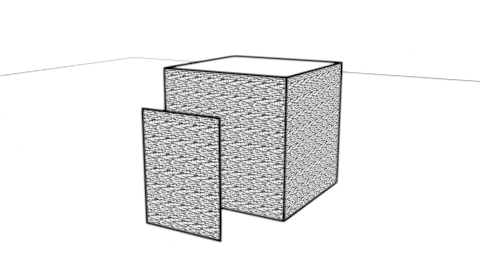
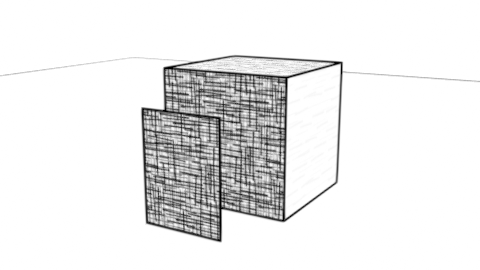
Crosshatch: fix the three look-breaking defaults (scale, key, ambient)
The first cut rendered real models as muddy grey noise. Three root causes,
each visible in isolation on the PacificContinentalResidence sample:

- uv_scale 3.0 -> 0.5. The custom-mip system needs one TAM tile to span
  ~32-256 SCREEN px; at whole-building framing (~35 px/m) 3.0 put tiles at
  ~12 px, so strokes went sub-pixel and aliased into flat grey "fabric".
- sync_sun read matrix_world, which is still IDENTITY in the pipeline path
  (no depsgraph eval between setup_world and the preset) - the shader got a
  straight-down sun: every wall ndl=0, uniform mid tone. Read rotation_euler.
- ambient 0.5 -> 0.15. 0.5 was mis-ported from the procedural hatch (where
  tone drives line WIDTH); in the Praun shader it capped darkness at 0.5, so
  no surface could ever reach the dense cross-hatch columns (4-5) that make
  the reference look. 0.15 restores the full white -> crosshatch range.

Plus the tone-source design this exposed: site suns can backlight a shot
into uniform flat hatch (the sample's 21:00 spec sun did), so the default
tone light is now hatch_tam.aim_camera_key() - a camera-relative artist's
key (45 deg over the left shoulder, 38 deg altitude), re-derived per render
in Live View (Capture / Render Final). The lamp contributes nothing to the
pixels (emission material), so the scene sun stays site-accurate; a new
"Follow Scene Sun" toggle in the Light panel switches tone back to the lamp
(the _apply_sun_direction hook now only syncs in that mode).
[…]

Changed region(s): [[0.2812, 0.2074, 0.7188, 0.8889]]

diff --git a/blender/pipeline/hatch_tam.py b/blender/pipeline/hatch_tam.py
@@ -23,9 +23,12 @@ Cycles-only, CPU (OSL). Three integration facts this module encodes:
   architectural corners, which is where hand hatching restarts anyway.
 
 The shader computes its own Lambert tone from the sun_dir INPUT (Cycles has
-no Shader-to-RGB), so sync_sun() must run after any sun move - live.py hooks
-it into _apply_sun_direction. Tone is orientation-only: no cast shadows, no
-AO (faithful to the paper; unlike `hatch`, where the shadows are the drawing).
+no Shader-to-RGB). Tone is orientation-only - no cast shadows, no AO
+(faithful to the paper; unlike `hatch`, where the shadows are the drawing) -
+so the light DIRECTION is the whole image. Default = aim_camera_key(), a
+camera-relative artist's key (a site sun can backlight a shot into flat
+uniform hatch - a real 21:00 spec did exactly that); Live View's "Follow
+scene sun" toggle switches to sync_sun(), which tracks the lamp.
 """
 import math
 import os
@@ -123,6 +126,45 @@ def _bake_box_uv(obj, me):
     layer.data.foreach_set("uv", np.stack([u, v], 1).astype(np.float32).ravel())
 
 
+def aim_camera_key(azimuth_offset_deg=45.0, altitude_deg=38.0):
+    """Point the shader's tone key over the camera's shoulder (classic artist
+    light: upper-left-behind). The DEFAULT tone source for this mode.
+
+    Tone is the entire image here (no cast shadows), so a site-accurate sun
+    can render a shot backlit-flat - e.g. a 21:00 spec sun behind the model
+    hatched every visible face identically. The lamp itself contributes
+    NOTHING to the final pixels (emission material + flat white world), so
+    only the shader input is written; the scene sun stays site-accurate for
+    every other mode. Live View's "Follow scene sun" toggle switches to
+    sync_sun() instead. Falls back to sync_sun() when no camera exists."""
+    mat = bpy.data.materials.get(MATERIAL)
+    script = _script_node(mat) if mat else None
+    if script is None:
+        return
+    cam = bpy.context.scene.camera
+    if cam is None:
+        sync_sun()
+        return
+    if cam.rotation_mode == "QUATERNION":
+        q = cam.rotation_quaternion
+    else:
+        q = cam.rotation_euler.to_quaternion()
+    f = q @ Vector((0.0, 0.0, -1.0))            # camera forward
+    fh = Vector((f.x, f.y, 0.0))
+    if fh.length < 1e-6:                        # straight-down 2D plan pose
+        sync_sun()
+        return
+    back = -fh.normalized()
+    ang = math.radians(azimuth_offset_deg)      # + = over the LEFT shoulder
+    left = Vector((back.x * math.cos(ang) - back.y * math.sin(ang),
+                   back.x * math.sin(ang) + back.y * math.cos(ang), 0.0))
+    alt = math.radians(altitude_deg)
+    to_sun = Vector((left.x * math.cos(alt), left.y * math.cos(alt),
+                     math.sin(alt)))
+    script.inputs["light_is_sun"].default_value = 1
+    script.inputs["sun_dir"].default_value = -to_sun
+
+
 def sync_sun(min_altitude_deg=MIN_SUN_ALTITUDE_DEG):
     """Push the scene sun's travel direction into the shader input.
 
@@ -136,7 +178,11 @@ def sync_sun(min_altitude_deg=MIN_SUN_ALTITUDE_DEG):
     sun = _helpers.sun_object()
     if sun is None:
         return
-    travel = sun.matrix_world.to_quaternion() @ Vector((0.0, 0.0, -1.0))
+    # rotation_euler, NOT matrix_world: the pipeline calls this right after
+    # setup_world wrote the lamp rotation, before any depsgraph evaluation -
+    # matrix_world is still identity there, which silently synced a straight-
+    # DOWN sun (every wall ndl=0 -> flat mid-grey tone; roofs white).
+    travel = sun.rotation_euler.to_quaternion() @ Vector((0.0, 0.0, -1.0))
     to_sun = -travel
     if to_sun.length < 1e-6:
         return
@@ -152,23 +198,39 @@ def sync_sun(min_altitude_deg=MIN_SUN_ALTITUDE_DEG):
     script.inputs["sun_dir"].default_value = -to_sun
 
 
-def apply_crosshatch(loaded, style="ink", uv_scale=3.0, ambient=0.5,
+PAPER_MATERIAL = "BIR_CrosshatchPaper"
+
+
+def _paper_material():
+    mat = bpy.data.materials.get(PAPER_MATERIAL)
+    if mat is None:
+        from . import npr
+        mat = npr.make_flat_material((1.0, 1.0, 1.0), name=PAPER_MATERIAL)
+    return mat
+
+
+def apply_crosshatch(loaded, style="ink", uv_scale=0.5, ambient=0.15,
                      threshold=False):
-    """Assign the ONE shared TAM material to every mesh + the ground."""
+    """Assign the ONE shared TAM material to every model mesh. The synthetic
+    ground plane stays WHITE PAPER instead: it's scenography, not model - a
+    horizontal plane under the 38-degree key would otherwise carpet the whole
+    sheet in a monotone light wash (there are no cast shadows to draw on it).
+    Real site geometry (has_site models) is model surface and hatches."""
     objs = [o for o in loaded.node_to_object.values()
             if getattr(o, "type", None) == "MESH"]
-    ground = bpy.data.objects.get("BIR_Ground")
-    if ground is not None and ground.type == "MESH":
-        objs.append(ground)
     ensure_tam_uv(objs)
 
     mat = _get_material()
     for obj in objs:
         obj.data.materials.clear()
         obj.data.materials.append(mat)
+    ground = bpy.data.objects.get("BIR_Ground")
+    if ground is not None and ground.type == "MESH":
+        ground.data.materials.clear()
+        ground.data.materials.append(_paper_material())
     set_crosshatch(style=style, uv_scale=uv_scale, ambient=ambient,
                    threshold=threshold)
-    sync_sun()
+    aim_camera_key()
     return mat
 
 

diff --git a/blender/interactive/live.py b/blender/interactive/live.py
@@ -516,6 +516,26 @@ def _update_crosshatch(self, context):
                              threshold=self.crosshatch_ink)
 
 
+def _update_crosshatch_key(self, context):
+    if _SYNCING:
+        return
+    from blender.pipeline import hatch_tam
+    if self.crosshatch_follow_sun:
+        hatch_tam.sync_sun()
+    else:
+        hatch_tam.aim_camera_key()
+
+
+def _refresh_crosshatch_key(st):
+    """Re-derive the crosshatch tone key from the CURRENT camera before a
+    render (the shot may have been reframed since the mode was applied).
+    No-op in follow-scene-sun mode or outside crosshatch."""
+    if st is None or st.mode != "crosshatch" or st.crosshatch_follow_sun:
+        return
+    from blender.pipeline import hatch_tam
+    hatch_tam.aim_camera_key()
+
+
 def _update_depth_cue(self, context):
     if _SYNCING:
         return
@@ -581,10 +601,11 @@ def _apply_sun_direction(az, alt):
                 if hasattr(n, "sun_rotation"):
                     n.sun_rotation = math.radians(az)
     # Crosshatch computes tone from a sun-direction INPUT (Cycles has no
-    # Shader-to-RGB), so the lamp move must be pushed into the shader too.
-    # No-op unless the crosshatch material exists.
-    if s is not None:
-        bpy.context.view_layer.update()    # rotation -> matrix_world first
+    # Shader-to-RGB): when it FOLLOWS the scene sun, push the lamp move into
+    # the shader too. (Default is the camera-relative key, which ignores the
+    # lamp entirely - see hatch_tam.aim_camera_key.)
+    st = getattr(bpy.context.scene, "bir", None)
+    if s is not None and st is not None and st.crosshatch_follow_sun:
         from blender.pipeline import hatch_tam
         hatch_tam.sync_sun()
 
@@ -1132,20 +1153,28 @@ class BIR_Settings(bpy.types.PropertyGroup):
         description="Which Tonal Art Map stroke set to draw with (swaps "
                     "instantly - no rebuild)", update=_update_crosshatch)
     crosshatch_scale: bpy.props.FloatProperty(
-        name="Stroke Scale", default=3.0, min=0.5, max=10.0,
-        description="Hatch tiles per metre of surface (higher = finer strokes; "
-                    "stroke WIDTH on screen stays constant either way - that's "
-                    "the TAM trick)", update=_update_crosshatch)
+        name="Stroke Scale", default=0.5, min=0.1, max=3.0,
+        description="Hatch tiles per metre of surface (higher = finer/shorter "
+                    "strokes). Strokes stay constant-width on SCREEN while one "
+                    "tile spans ~32-256 px - past that the look degrades, so "
+                    "raise this only for closeups", update=_update_crosshatch)
     crosshatch_ambient: bpy.props.FloatProperty(
-        name="Ambient", default=0.5, min=0.0, max=1.0,
-        description="Base tone before the sun: lower = more of the model gets "
-                    "inked (0.35 turns whole facades near-solid; 0.5 reads "
-                    "best on real buildings)", update=_update_crosshatch)
+        name="Ambient", default=0.15, min=0.0, max=1.0,
+        description="Base tone before the key light: lower = deeper, denser "
+                    "cross-hatch in the shadows (0.15 = the classic full-range "
+                    "look; raise toward 0.5 for an airier drawing)",
+        update=_update_crosshatch)
     crosshatch_ink: bpy.props.BoolProperty(
         name="Ink Threshold", default=False,
         description="Snap strokes to pure black/white (the paper's ink "
                     "transfer clamp(8t-3.5)); off keeps soft pencil greys",
         update=_update_crosshatch)
+    crosshatch_follow_sun: bpy.props.BoolProperty(
+        name="Follow Scene Sun", default=False,
+        description="Drive hatch tone from the scene sun (site-accurate; can "
+                    "leave a backlit shot uniformly hatched). Off = a "
+                    "camera-relative artist's key over the left shoulder, "
+                    "re-derived for each render", update=_update_crosshatch_key)
     depth_cue: bpy.props.BoolProperty(
         name="Depth Cue", default=False,
         description="Tier line weight by distance: near edges thick + dark, far "
@@ -1670,6 +1699,7 @@ def _do_capture():
     global _STATUS
     out = _next_capture_path()
     sc = bpy.context.scene
+    _refresh_crosshatch_key(getattr(sc, "bir", None))
     sc.render.image_settings.file_format = "PNG"
     sc.render.filepath = out
     bpy.ops.render.render(write_still=True)
@@ -1766,6 +1796,7 @@ def _render_still_at(out, samples):
         # CPU minutes on the lit-mode final_samples default
         sc.cycles.samples = min(int(samples), 64)
         sc.cycles.use_denoising = False
+        _refresh_crosshatch_key(st)     # key follows the FRAMED shot
     else:
         sc.render.engine = "CYCLES"
         sc.cycles.samples = int(samples)
@@ -2129,10 +2160,14 @@ class BIR_PT_light(_Sub, bpy.types.Panel):
         st = _bir(context)
         layout = self.layout
         if st.mode == "crosshatch":
-            # Tone is analytic (in-shader Lambert from the sun DIRECTION):
-            # exposure / sky / sun strength / softness are all inert. The Sun
-            # subpanel below is the control that matters.
-            layout.label(text="Tone follows the sun direction.", icon="LIGHT_SUN")
+            # Tone is analytic (in-shader Lambert from a light DIRECTION):
+            # exposure / sky / sun strength / softness are all inert.
+            layout.prop(st, "crosshatch_follow_sun", toggle=True,
+                        icon="LIGHT_SUN")
+            if st.crosshatch_follow_sun:
+                layout.label(text="Tone follows the Sun panel below.")
+            else:
+                layout.label(text="Tone: artist's key over the left shoulder.")
             return
         if st.mode in _LIT_MODES or st.mode == "linework":
             layout.prop(st, "exposure", slider=True)

diff --git a/tests/headless_crosshatch.py b/tests/headless_crosshatch.py
@@ -74,27 +74,50 @@ def main():
     assert sc.cycles.use_denoising is False, "denoising would smear strokes"
     print("engine flags OK")
 
-    # --- material + TamUV on every mesh (and the ground, if any) -----------
+    # --- material + TamUV on every model mesh; ground = white paper --------
     meshes = [o for o in bpy.data.objects
-              if o.type == "MESH" and (o.name.startswith("BIR_Mat_")
-                                       or o.name == "BIR_Ground")]
+              if o.type == "MESH" and o.name.startswith("BIR_Mat_")]
     assert meshes, "no merged meshes found - fixture import changed?"
     for o in meshes:
         mats = [m.name for m in o.data.materials if m is not None]
         assert mats == [hatch_tam.MATERIAL], "%s materials: %r" % (o.name, mats)
         assert o.data.uv_layers.get(hatch_tam.UV_LAYER), \
             "%s missing %s" % (o.name, hatch_tam.UV_LAYER)
+    ground = bpy.data.objects.get("BIR_Ground")
+    if ground is not None:
+        gmats = [m.name for m in ground.data.materials if m is not None]
+        assert gmats == [hatch_tam.PAPER_MATERIAL], \
+            "ground should be white paper, got %r" % gmats
     assert bpy.data.objects.get("BIR_LineArt") is not None, "Line Art missing"
-    print("material + TamUV on %d meshes OK" % len(meshes))
+    print("material + TamUV on %d meshes OK (ground = paper)" % len(meshes))
 
     # --- strokes actually drawn (not the flat-grey OSL fallback) -----------
     ink = _luma(out)
     frac = _stroke_fraction(ink)
     assert 0.25 < ink.mean() < 0.97, "mean luma %.3f: black or blank" % ink.mean()
-    assert frac > 0.03, \
+    assert frac > 0.015, \
         "stroke gradient fraction %.4f: looks like the flat-grey fallback " \
-        "(OSL compile failed or TamUV wasn't exported to the device)" % frac
+        "(OSL compile failed or strokes vanished)" % frac
     print("strokes present OK (gradient fraction %.3f)" % frac)
+
+    # --- TamUV really reaches the render device ----------------------------
+    # If the UV attribute export regresses (the getattribute trap), every
+    # pixel samples texel (0,0) and uv_scale can no longer change the image.
+    def _render_at_scale(scale, name):
+        hatch_tam.set_crosshatch(uv_scale=scale)
+        p = os.path.join(_OUT_DIR, name)
+        sc.render.filepath = p
+        bpy.ops.render.render(write_still=True)
+        return _luma(p)
+
+    a = _render_at_scale(0.5, "crosshatch_uv_a.png")
+    b = _render_at_scale(3.0, "crosshatch_uv_b.png")
+    hatch_tam.set_crosshatch(uv_scale=0.5)
+    duv = float(np.abs(a - b).mean())
+    assert duv > 0.005, \
+        "uv_scale change altered nothing (diff %.5f): TamUV isn't reaching " \
+        "the device - is the UV Map node still linked into UVIn?" % duv
+    print("TamUV live on device OK (scale diff %.4f)" % duv)
 
     # --- style switch re-renders differently -------------------------------
     hatch_tam.set_crosshatch(style="charcoal")

diff --git a/blender/pipeline/presets/crosshatch.py b/blender/pipeline/presets/crosshatch.py
@@ -18,8 +18,16 @@ def apply(loaded, spec):
     # paints the background pixels.
     _helpers.set_neutral_world(1.0, 1.0)
     npr.set_flat_view()                  # Standard transform: ink stays black
-    hatch_tam.apply_crosshatch(loaded, style="ink", uv_scale=3.0,
-                               ambient=0.5, threshold=False)
+    # uv_scale: TAM tiles per METRE. The mip system works while one tile spans
+    # ~32-256 SCREEN px, so at whole-building framing (~35 px/m) tiles must be
+    # metres wide; 3.0 put tiles at ~12 px = sub-pixel strokes aliasing to
+    # flat grey (the "dense noise" failure).
+    # ambient floors the tone: 0.15 lets full shadow reach the DENSE
+    # cross-hatch columns (darkness 0.85 -> column ~5, the classic look).
+    # 0.5 - ported by mistake from the procedural hatch's tuning - capped
+    # darkness at 0.5, so nothing ever drew past mid "sparse dashes".
+    hatch_tam.apply_crosshatch(loaded, style="ink", uv_scale=0.5,
+                               ambient=0.15, threshold=False)
     npr.setup_line_art(radius=npr.default_line_radius(), color=(0.0, 0.0, 0.0),
                        crease_deg=70.0, thickness_factor=1.0)
 

diff --git a/tools/build_crosshatch_template.py b/tools/build_crosshatch_template.py
@@ -45,9 +45,11 @@ EXPECTED_SOCKETS = [
 DEFAULTS = {
     "tone_mode": 0,
     "light_is_sun": 1,
-    "ambient": 0.5,      # 0.35 over-inks real facades (hatch-tam.md learning)
+    "ambient": 0.15,     # full shadow -> darkness 0.85 -> the dense TAM
+                         # columns; 0.5 capped the range at mid "dashes"
     "kd": 1.1,
-    "uv_scale": 3.0,     # TamUV is in world metres -> strokes per metre
+    "uv_scale": 0.5,     # TamUV is in world metres; tiles must span ~32-256
+                         # SCREEN px for the mip system, so metres-wide tiles
     "v_aspect": 1.0,
     "use_uv_socket": 1,  # UVIn via UV Map node; getattribute reads zeros headless
     "swap_uv": 0,

diff --git a/docs/hatch-tam.md b/docs/hatch-tam.md
@@ -93,9 +93,15 @@ validated on spheres/cylinders/organics before integration):
   strokes keep constant SCREEN width and tone changes by add/remove — the
   paper's actual trick, beyond what EEVEE nodes can express. Cycles-only,
   CPU; the emission-only shading converges in very few samples. Tone is
-  analytic Lambert from the sun-direction *input* (no Shader-to-RGB in
-  Cycles), synced by `hatch_tam.sync_sun()` — so no cast shadows by design;
-  an AO/shadow bake multiplied into tone is the noted v2 hook.
+  analytic Lambert from a light-direction *input* (no Shader-to-RGB in
+  Cycles) — so no cast shadows by design; an AO/shadow bake multiplied into
+  tone is the noted v2 hook. **The default tone light is a camera-relative
+  artist's key** (`hatch_tam.aim_camera_key()`: 45° over the left shoulder,
+  38° altitude, re-derived per render) because tone is the entire image and
+  a site-accurate sun can backlight a shot into uniform flat hatch — the
+  sample residence's 21:00 spec sun did exactly that. Live View's "Follow
+  Scene Sun" toggle switches to `sync_sun()` (tracks the lamp; reads
+  `rotation_euler`, NOT `matrix_world`, which is stale in the pipeline path).
 - **The parameterization is the pragmatic half** (point 1 stayed parked):
   instead of a curvature field, `hatch_tam.ensure_tam_uv()` bakes a
   dominant-axis box projection per face ("TamUV", world metres) — the
@@ -113,6 +119,16 @@ node — the `getattribute(uv_name)` path silently reads zeros headless (Cycles
 never exports a UV layer no node requests); engine flags (shading_system, CPU
 device, denoise OFF — denoising smears strokes) are derived from the mode in
 `engine.py setup_engine` via `registry.OSL_MODES`, never written into the
-shared spec, so they self-heal on every mode switch. Tuning carried over from
-the experiment branch: **ambient 0.5** (0.35 over-inks real facades) and a
-**20° sun-altitude floor** clamped on the shader input only.
+shared spec, so they self-heal on every mode switch.
+
+Tuning that MATTERS (each was a visible failure before it was fixed):
+- **uv_scale 0.5 tiles/metre.** The custom-mip system works while one tile
+  spans ~32–256 SCREEN px; at whole-building framing (~35 px/m) that means
+  metres-wide tiles. 3.0 put tiles at ~12 px → sub-pixel strokes aliasing
+  into flat grey "dense noise".
+- **ambient 0.15.** Full shadow → darkness 0.85 → the dense cross-hatch
+  columns (~5). 0.5 (mis-ported from the procedural hatch's tuning, where
+  tone drives line width, not stroke count) capped darkness at 0.5, so no
+  surface could ever draw past the mid sparse-dash column.
+- **20° sun-altitude floor** on the shader input only (used when following
+  the scene sun; the artist's key sits at 38° by construction).